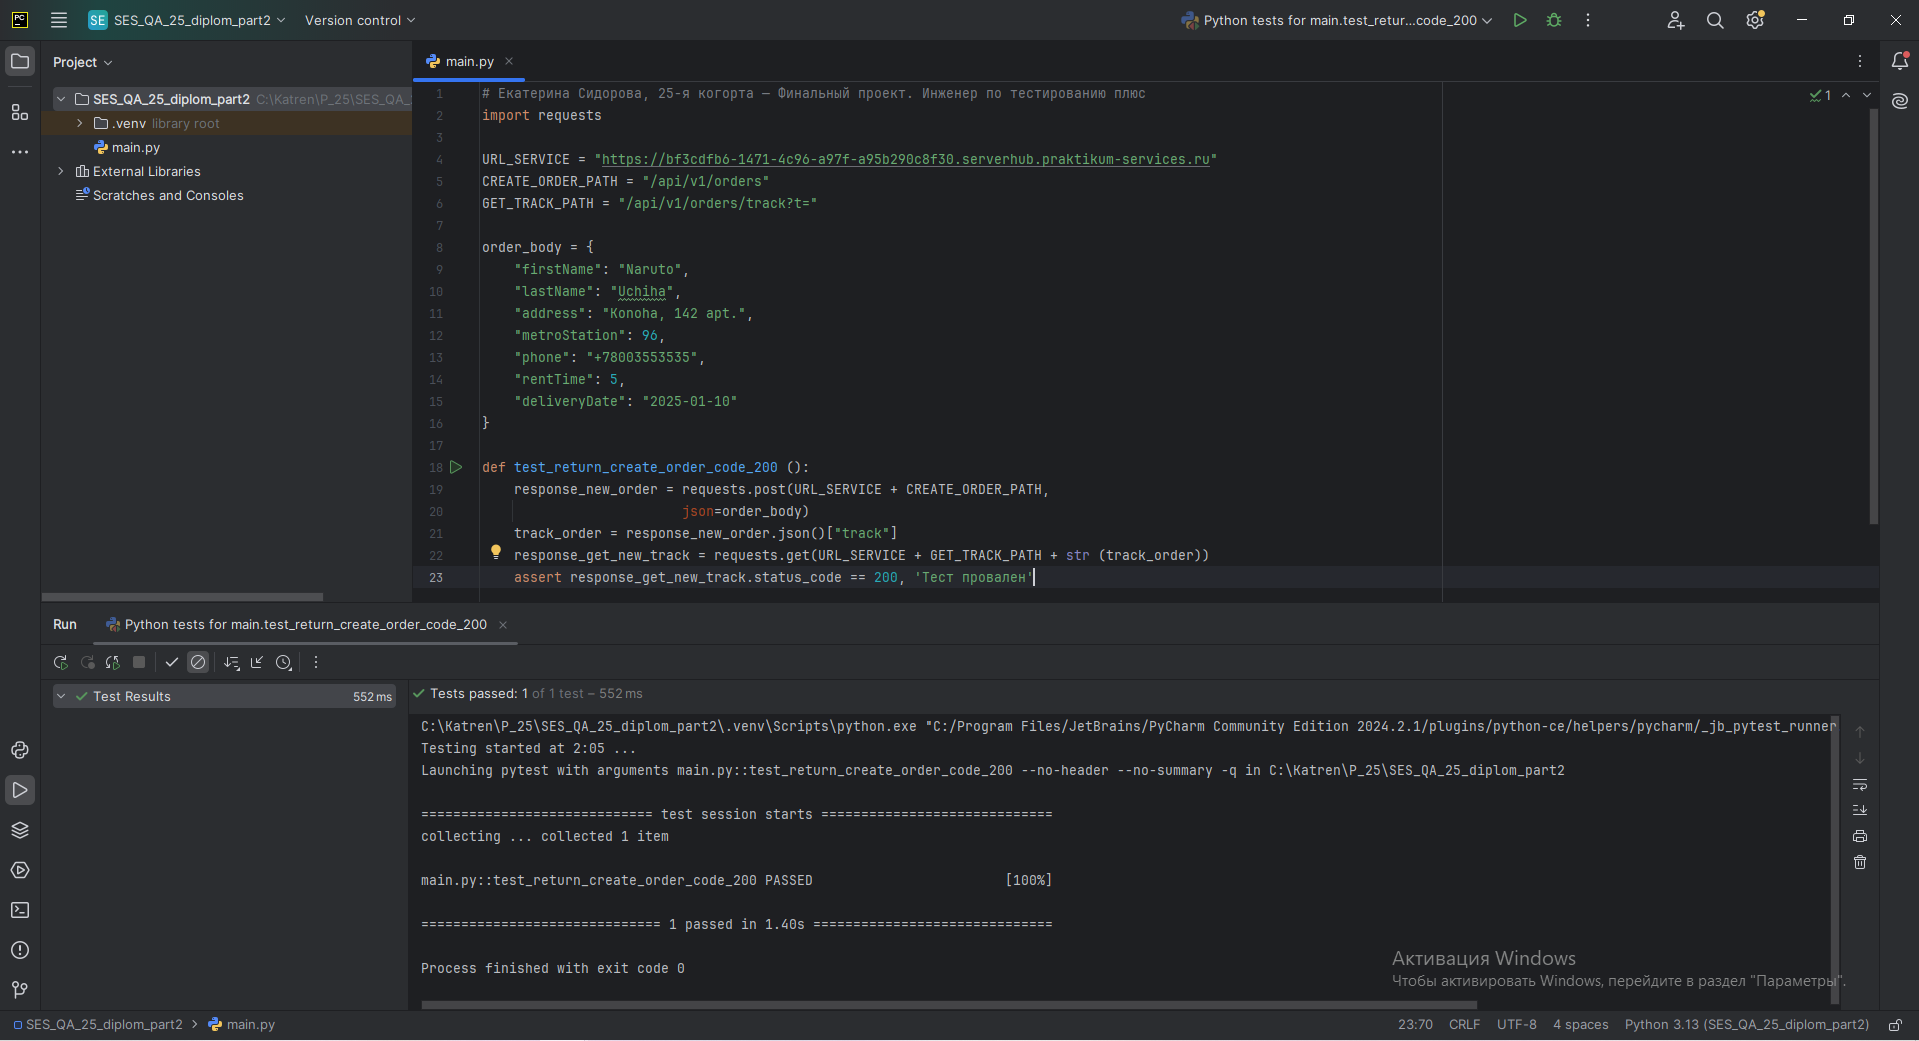
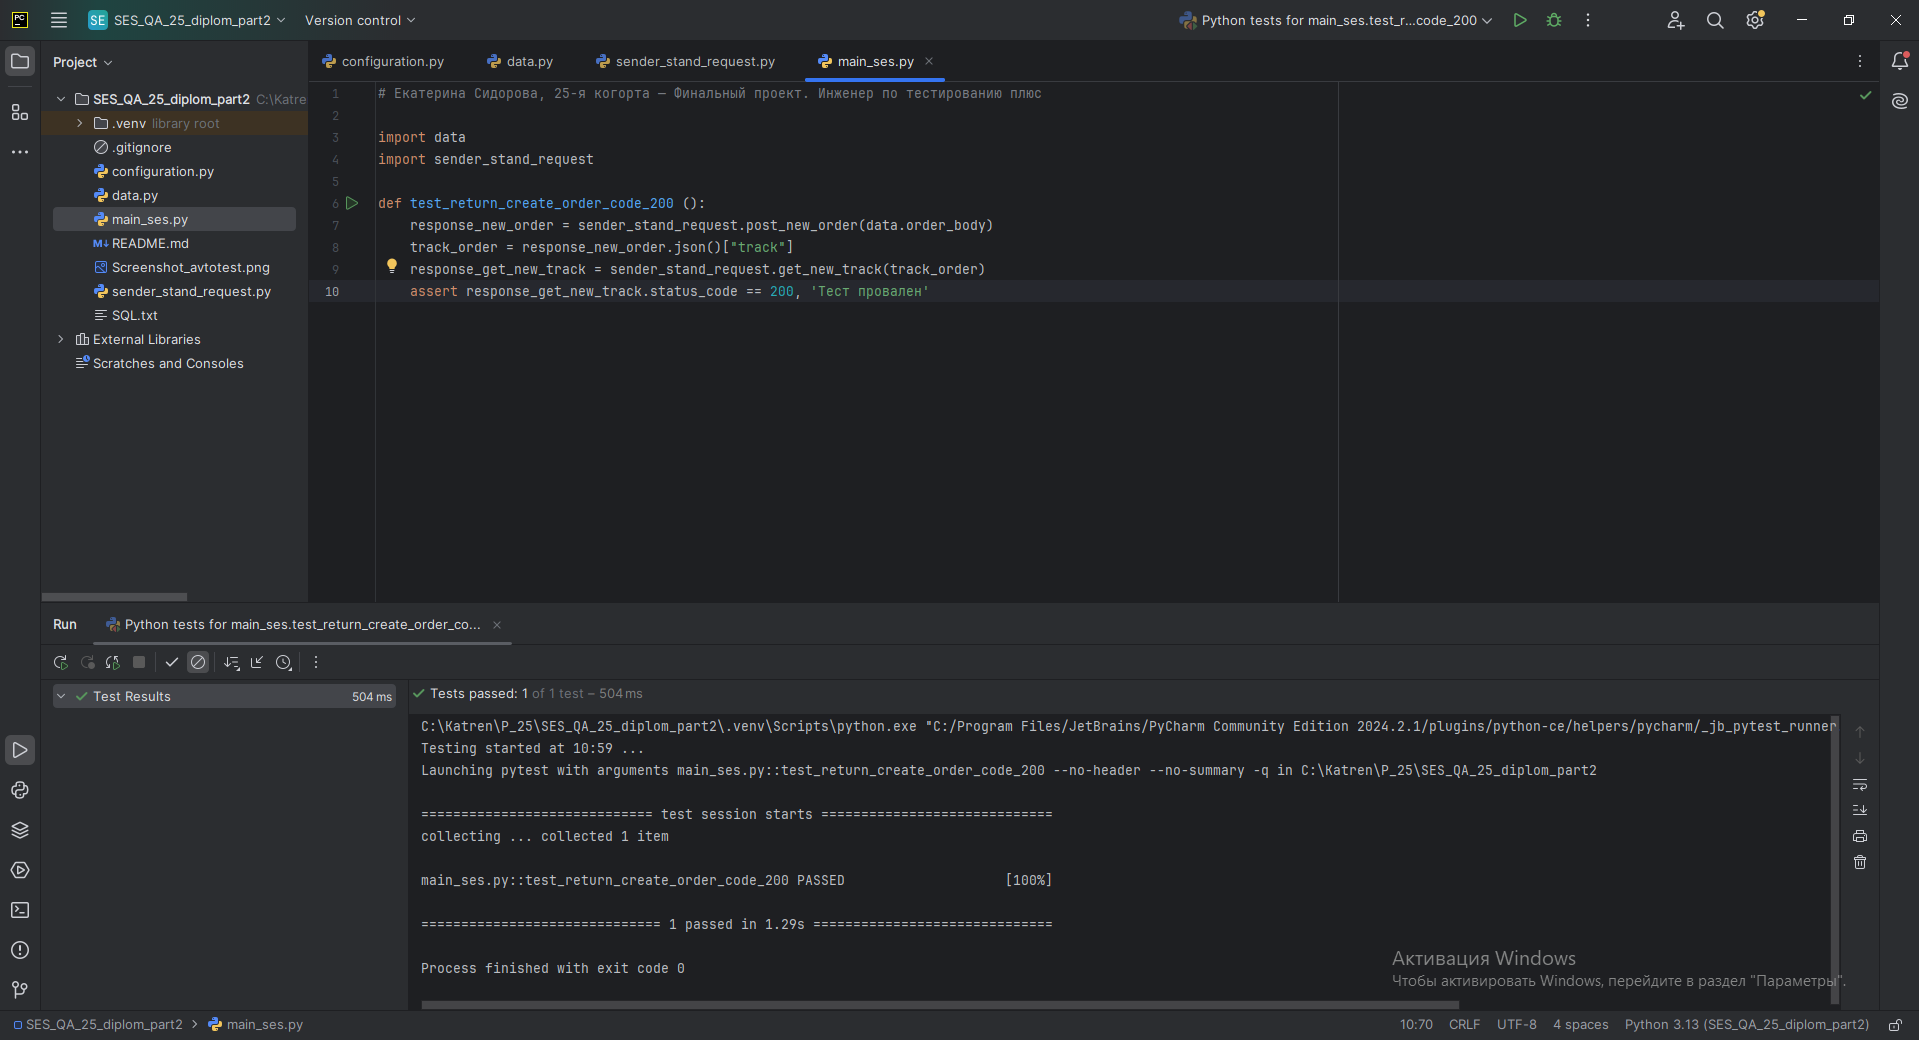
Екатерина_Сидорова_QA_25_diplom_part2_v2

diff --git a/main_ses.py b/main_ses.py
@@ -1,23 +1,10 @@
 # Екатерина Сидорова, 25-я когорта — Финальный проект. Инженер по тестированию плюс
-import requests
 
-URL_SERVICE = "https://bf3cdfb6-1471-4c96-a97f-a95b290c8f30.serverhub.praktikum-services.ru"
-CREATE_ORDER_PATH = "/api/v1/orders"
-GET_TRACK_PATH = "/api/v1/orders/track?t="
-
-order_body = {
-    "firstName": "Naruto",
-    "lastName": "Uchiha",
-    "address": "Konoha, 142 apt.",
-    "metroStation": 96,
-    "phone": "+78003553535",
-    "rentTime": 5,
-    "deliveryDate": "2025-01-10"
-}
+import data
+import sender_stand_request
 
 def test_return_create_order_code_200 ():
-    response_new_order = requests.post(URL_SERVICE + CREATE_ORDER_PATH,
-                         json=order_body)
+    response_new_order = sender_stand_request.post_new_order(data.order_body)
     track_order = response_new_order.json()["track"]
-    response_get_new_track = requests.get(URL_SERVICE + GET_TRACK_PATH + str (track_order))
+    response_get_new_track = sender_stand_request.get_new_track(track_order)
     assert response_get_new_track.status_code == 200, 'Тест провален'

diff --git a/README.md b/README.md
@@ -3,5 +3,5 @@
 Тест на проверку кода ответа 200 при получении данных о созданном клиентом заказе по его номеру (ручка /api/v1/orders/track) с помощью API Яндекс Самокат
 
 - Для запуска теста должны быть установлены пакеты pytest и requests
-- Для наглядности кода и информативного скриншота все параметры отражены в одном файле main_ses.py
+- Автотест представлен в файле main_ses.py
 - Тест включает одну позитивную проверку на статус кода
